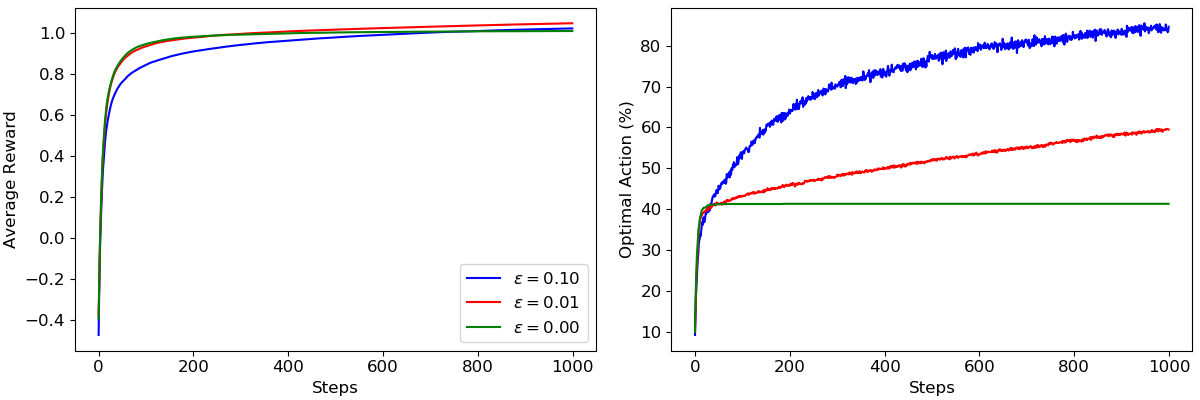
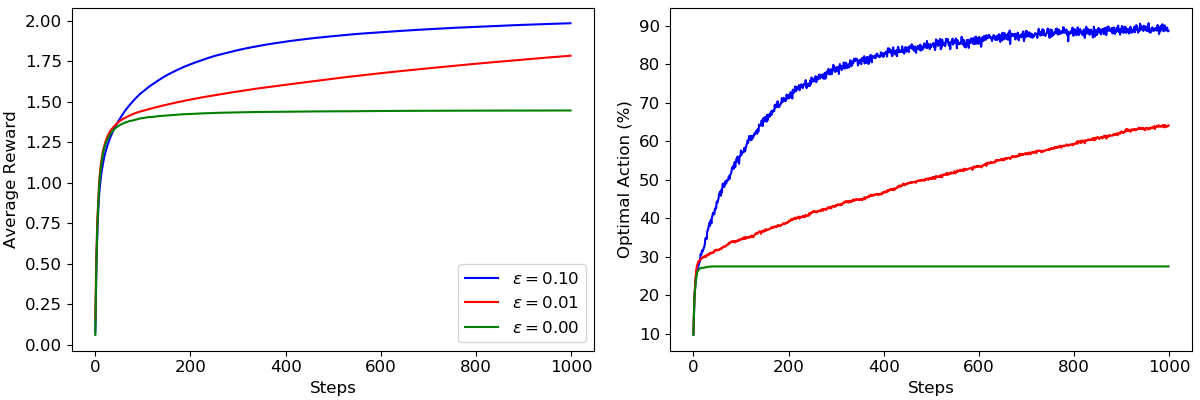
fixed figs percentages

diff --git a/ch2/karmedbandit.py b/ch2/karmedbandit.py
@@ -17,10 +17,10 @@ class KArmedBandit:
     Rewards come from randomized gaussian distributions.
     """
     
-    def __init__(self, k, mean=0, std=1.0):
+    def __init__(self, k, mean=0, variance=1.0):
         self.k = k
         self.reset()
-        self.mean_values = np.random.normal(mean, std, size=k)
+        self.mean_values = np.random.normal(mean, variance, size=k)
         
         # Plots reward distributions
         fig, ax = plt.subplots(1, k, figsize=(10, 6), constrained_layout=True, sharex=True, sharey=True)
@@ -30,28 +30,26 @@ class KArmedBandit:
         [(ax[i].set_xticks([]), ax[i].set_xlabel("Action %i" % (i+1))) for i in range(k)]
         fig.suptitle("The %i-armed bandit" % k)
         plt.show()
-        fig.savefig("../img/ch2/karmedbandit_actions.png", dpi=100)
-        
     
     def reset(self):
         # Resets counters and rewards
-        self.avg_reward = list()
+        self.avg_reward = 0
         self.Q = np.zeros(shape=(self.k,))
         self.N = np.zeros(shape=(self.k,))
+        self.avg_rewards = list()
         self.optimal = np.array([])
     
-    def get_reward(self, action):
+    def get_reward(self, action, step):
         # Computes the reward
         reward = np.random.normal(loc=self.mean_values[action], scale=1.0)
         
         # Updates action counts and action values
         self.N[action] += 1
-        self.Q[action] = self.Q[action] + (1 / self.N[action]) * (reward - self.Q[action])
+        self.Q[action] += (1 / self.N[action]) * (reward - self.Q[action])
         
-        # Updates the (weighted) average reward
-        p = self.N / self.N.sum()
-        avg_reward = (self.Q * p).sum() / p.sum()
-        self.avg_reward.append(avg_reward)
+        # Updates the average reward
+        self.avg_reward += (reward - self.avg_reward) / step
+        self.avg_rewards.append(self.avg_reward)
     
     def rob(self, p, steps=1000):
         # Plays for a certain number of steps
@@ -68,7 +66,7 @@ class KArmedBandit:
                 self.optimal = np.append(self.optimal, 1)
             else:
                 self.optimal = np.append(self.optimal, 0)
-            self.get_reward(action)
+            self.get_reward(action, t)
             t += 1
             
     def rob_n_times(self, n=100, steps=1000, p=0.1, verbose=False):
@@ -76,18 +74,18 @@ class KArmedBandit:
         for robbery in range(n):
             self.rob(p, steps)
             if robbery == 0:
-                mean_Q = np.array(self.avg_reward)
-                mean_O = self.optimal
+                avg_R = np.array(self.avg_rewards)
+                avg_optimal = self.optimal
             else:
-                mean_Q += np.array(self.avg_reward)
-                mean_O += self.optimal
+                avg_R += np.array(self.avg_rewards)
+                avg_optimal += self.optimal
         if verbose:
             fig, ax = plt.subplots(1, 1)
-            ax.plot(range(steps), mean_Q)
+            ax.plot(range(steps), avg_R)
             ax.set_xlabel("Steps"), ax.set_ylabel("Average reward")
             plt.show()
         else:
-            return mean_Q / n, mean_O / n
+            return avg_R / n, avg_optimal / n
         
 if __name__ == "__main__":
     
